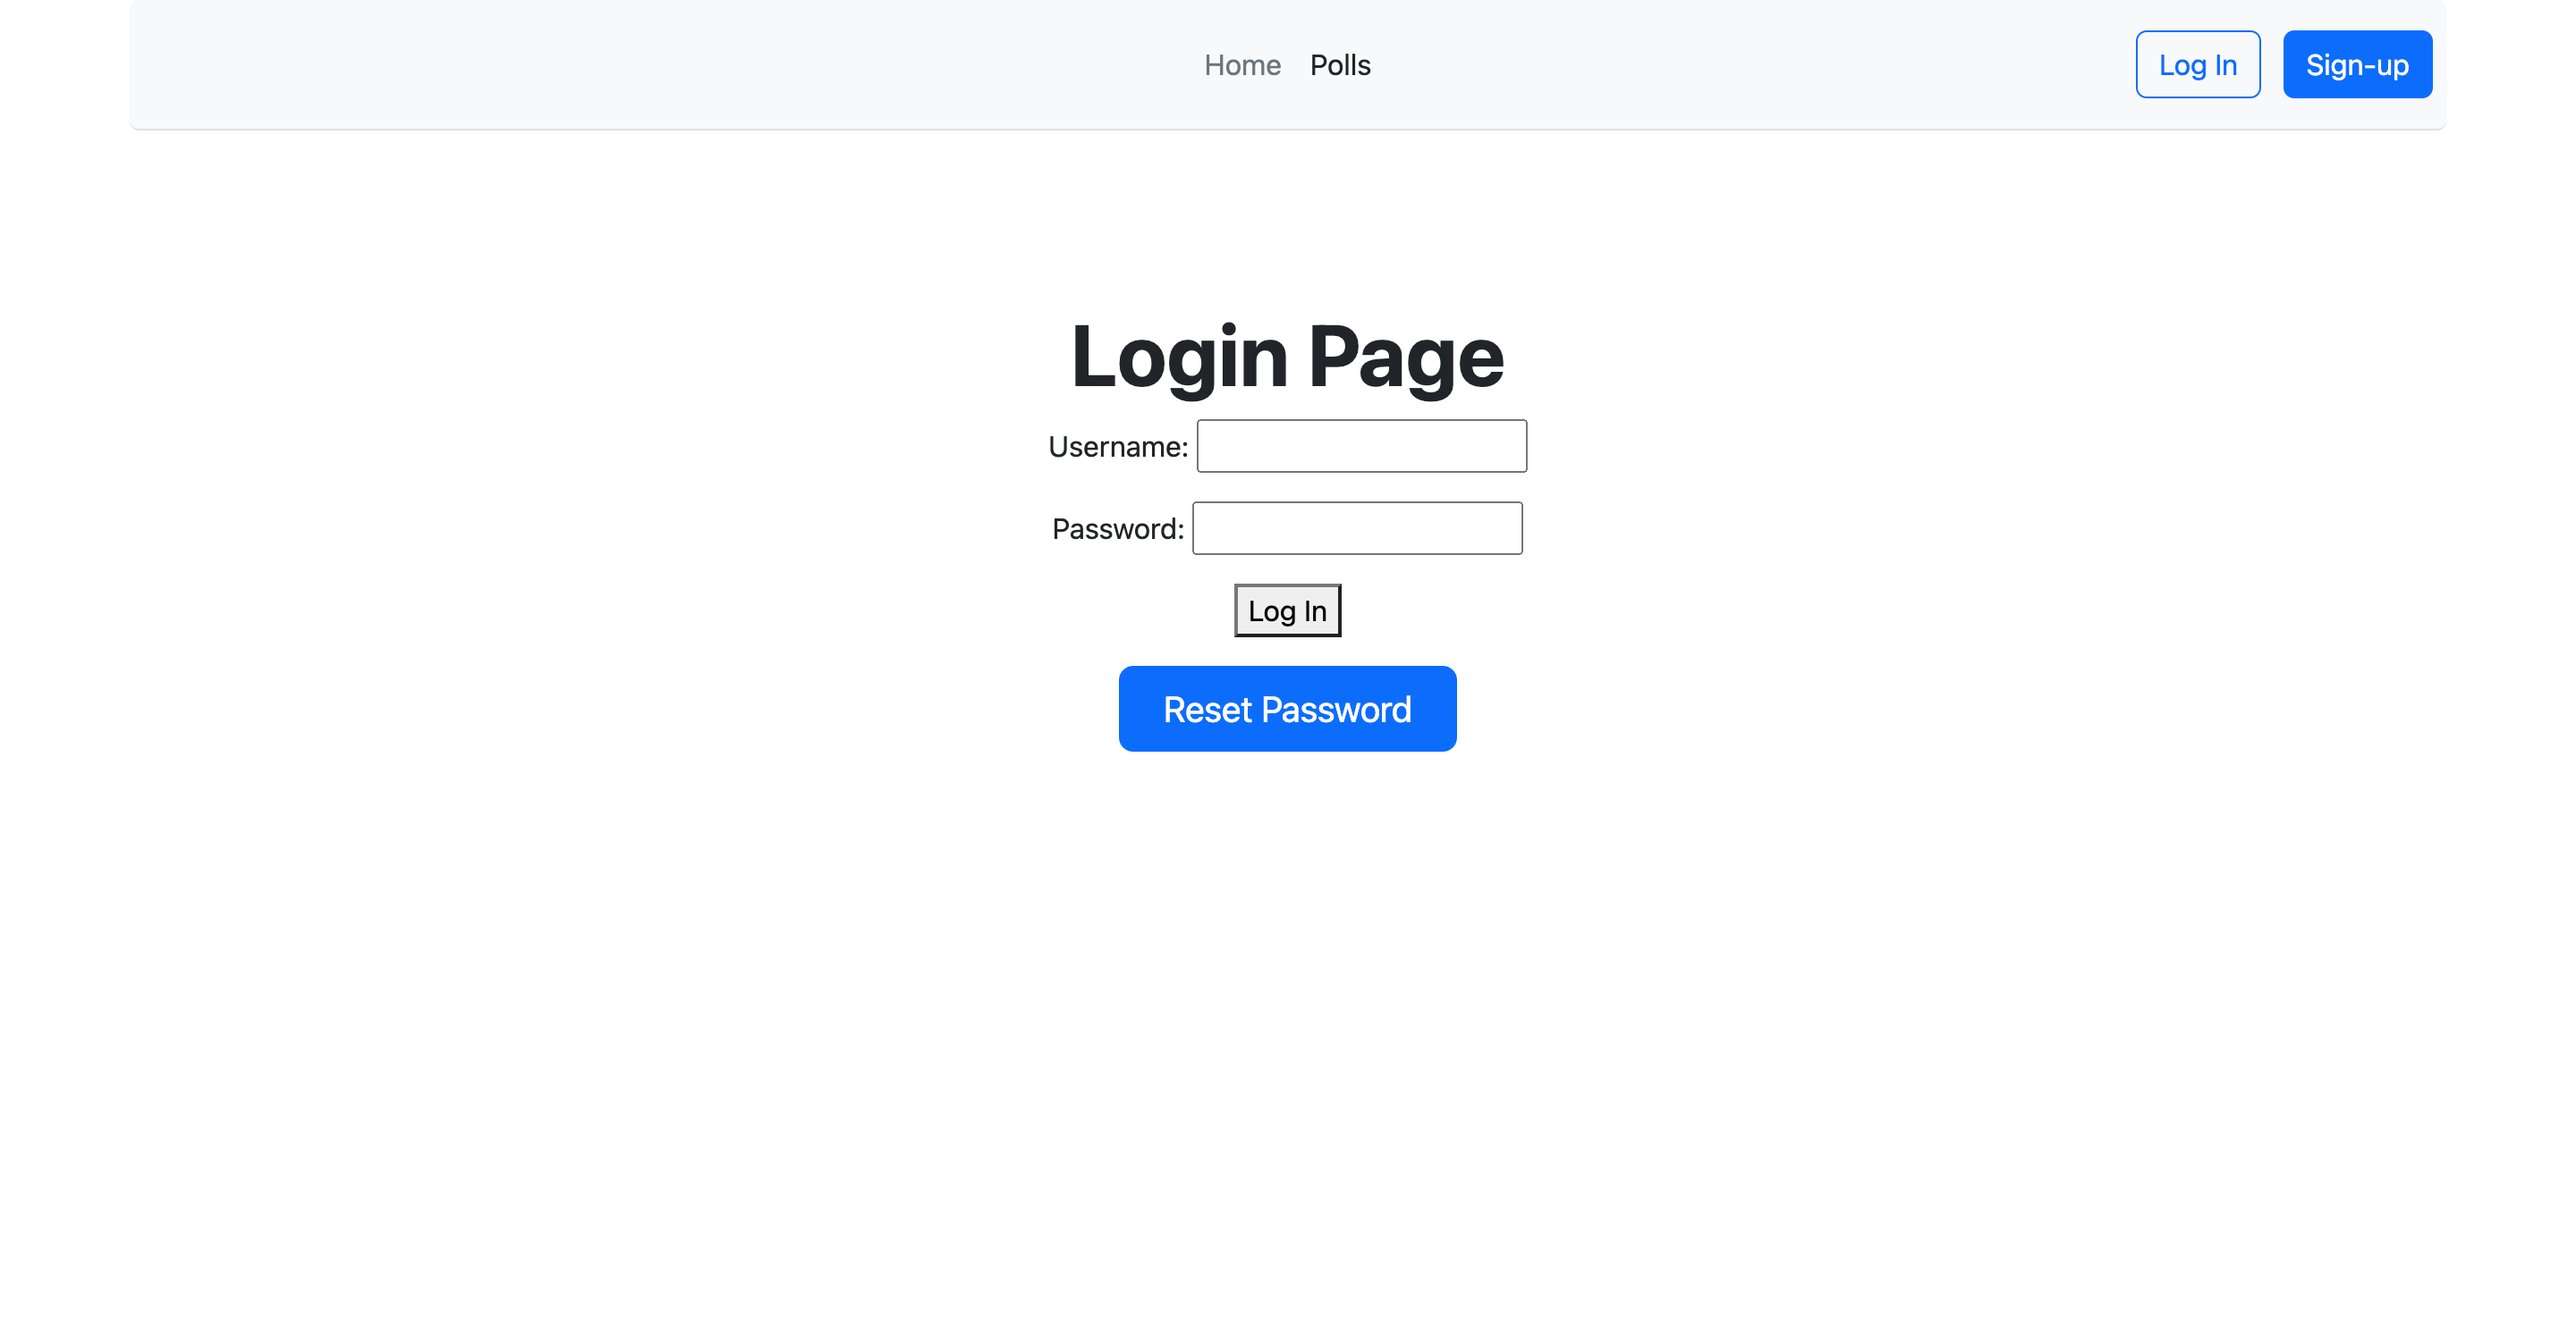
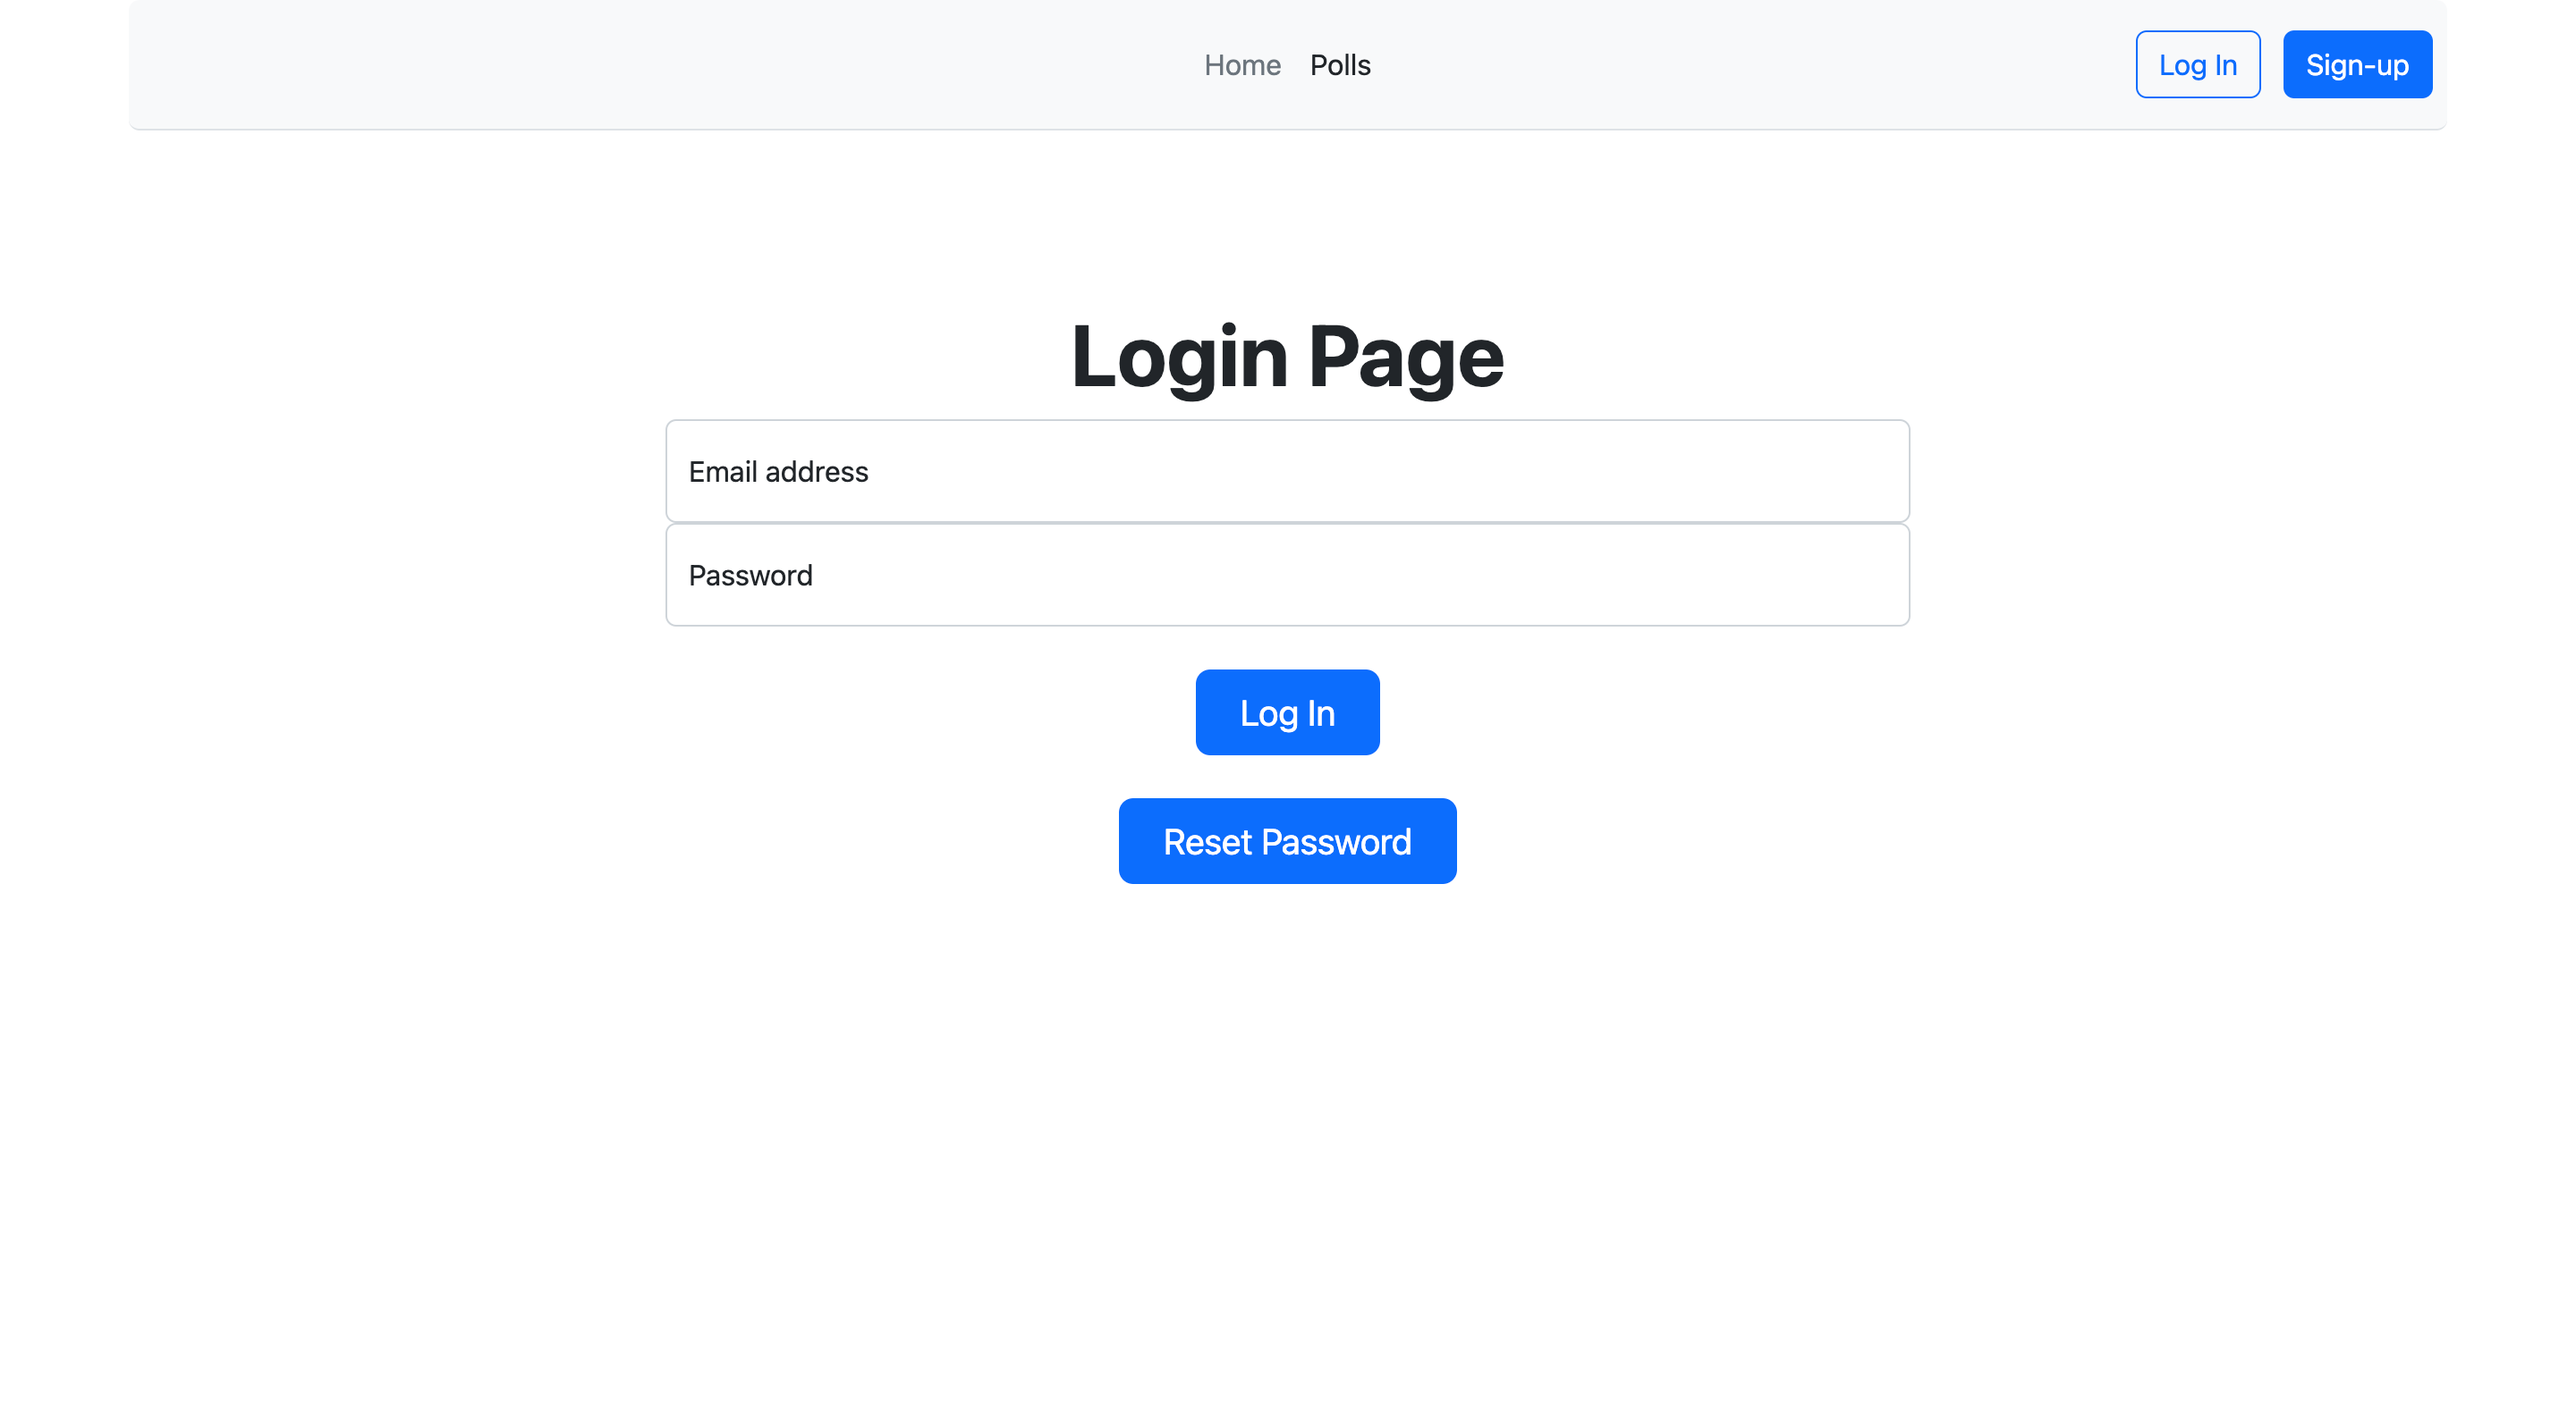
custom login form

diff --git a/templates/registration/login.html b/templates/registration/login.html
@@ -9,11 +9,21 @@
     <h1 class="display-5 fw-bold">Login Page</h1>
     <div class="col-lg-6 mx-auto">
 
-    <form method="post">
-    {% csrf_token %}
-    {{ form.as_p }}
-    <button type="submit">Log In</button>
+        <div class="text-center">
+    <form method="post" class="form-signin w-100 m-auto">
+        {% csrf_token %}
+        <div class="form-floating">
+            <input type="text" class="form-control" id="id_username" placeholder="user" name="username">
+            <label for="id_username">Email address</label>
+        </div>
+        <div class="form-floating">
+            <input type="password" class="form-control" id="id_password" placeholder="Password" name="password">
+            <label for="id_password">Password</label>
+        </div>
+    <!-- {{ form.as_p }} -->
+        <button type="submit" class="btn btn-primary btn-lg px-4 gap-3 m-4">Log In</button>
     </form>
+        </div>
 
         <div class="d-grid gap-2 d-sm-flex justify-content-sm-center">
             <a href="{% url 'password_reset' %}" class="btn btn-primary btn-lg px-4 gap-3">Reset Password</a>

diff --git a/readme.md b/readme.md
@@ -15,16 +15,20 @@ The main screen is showing the welcome page:
 This section uses a file base.html in the templates folder to be the base template of all HTML files.
 I am using Bootstrap to save time on the CSS, and the CSS is loaded from an official CDN.
 All the remaining pages are extensions of the base.html file.
-On this page, the user is required to log in to see polls and vote.
+On this page, the user is required to log in to see polls and vote(The user can see the link but it is protected by one if statement checking if the user is logged in).
+
+- Index page: This page is the home page of the website. It is showing the welcome message and the login form that is saved in the home.html file in the templates folder.
 
 - Log-in system
-The log-in system uses the built-in user authentication system provided by Django, with custom log-in, log-out, create and recovery password pages merged with the Bootstrap template.
+The log-in system uses the built-in user authentication system provided by Django, with custom log-in, log-out, create and recovery password pages merged with the Bootstrap template, this HMTL file is located inside registration in the templates folder, the log-in form is customized to be more user-friendly.
 
 - Polls system
 The poll system shows the user the polls and their answer, the user can vote and see the results, also the total number of votes.
+This last method is using the built-in Django aggregation method to get the total number of votes, which sums the number of votes for each poll.
+The poll templates are saved inside the polls folder in the templates folder and they use the base.html file as the base template, as per the Log-in system.
 
 - Top Bar
-This bar is from the Bootstrap examples and the icons changes based on the session( If the user is logged in the menu changes showing the log-out option and the user name, alongside a profile example picture).
+This bar is from the Bootstrap examples and the icons changes based on the session( If the user is logged in the menu changes showing the log-out option and the user name, alongside a profile example picture, if the user is not logged in it shows the log-in button and the sign-up button).
 
 ## Project
 
